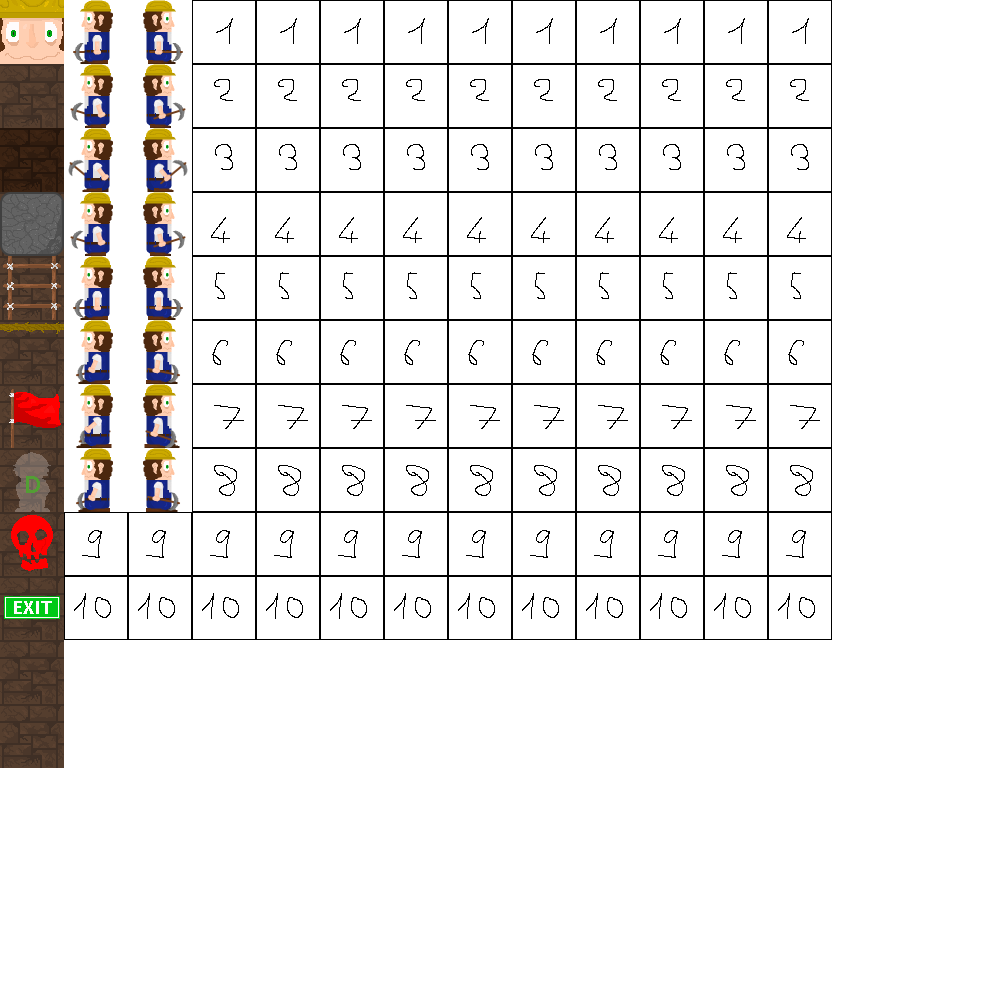
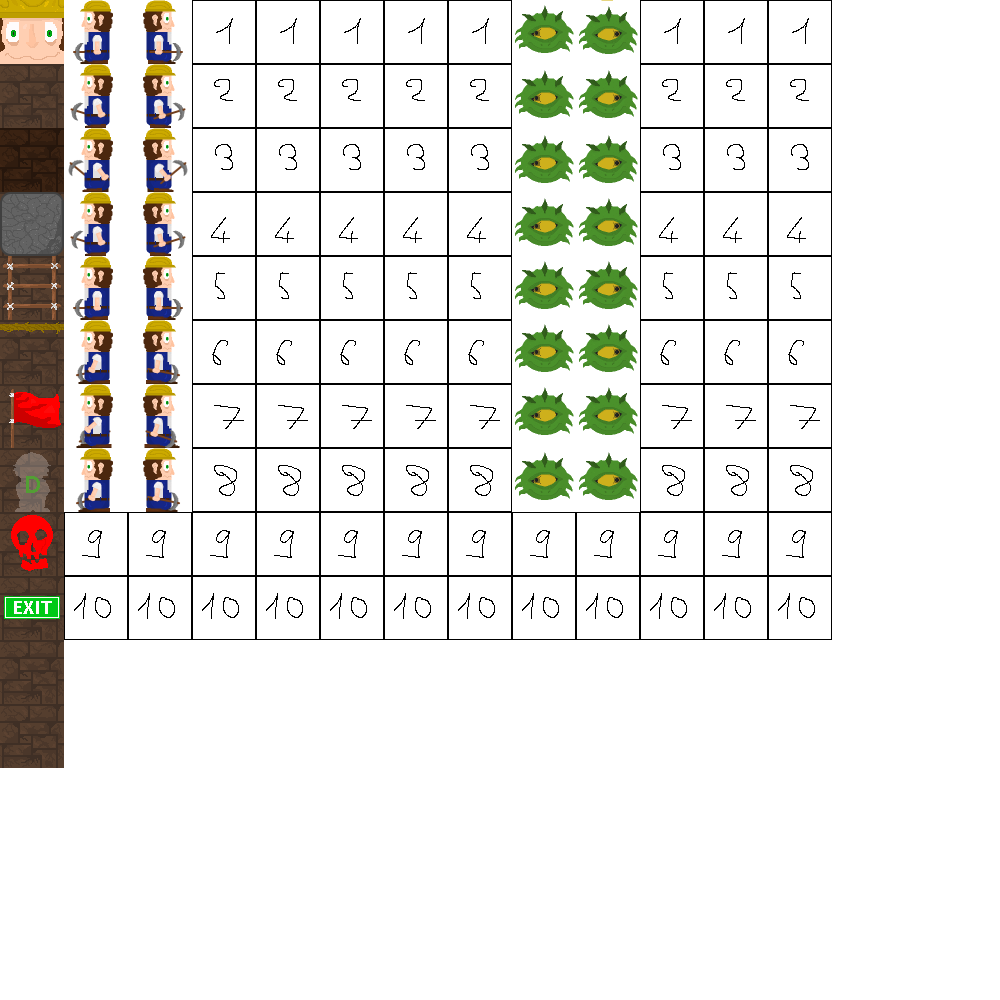
I broke AI but I figured out how to improve it. FEATURE: New flipbooks for ennemies.

Changed region(s): [[0.496, 0.0, 0.651, 0.527]]

diff --git a/LodeRunners/src/Game/Controllers/AIController.cpp b/LodeRunners/src/Game/Controllers/AIController.cpp
@@ -12,31 +12,49 @@ AIController::AIController(TileMap* tileMap, const std::vector<RunnerPawn*>& run
 void AIController::update(const float& dt)
 {
 	m_TimeAccumulator += dt;
-	if (m_TimeAccumulator < .5f) return;
-	else
-		m_TimeAccumulator -= .5f;
-
-	Pawn::MoveDir dir = Pawn::MoveDir::None;
 
 	updateClosestRunner();
-	
-	if (AI::ComputeAStar(m_TileMap->getNavigationGraph(),
-		{ (int)getPawn()->getPosition().x, (int)getPawn()->getPosition().y },
-		{ (int)m_ClosestRunner->getPosition().x , (int)m_ClosestRunner->getPosition().y },
-		m_Path))
-	{
-		sf::Vector2i currentPos = { (int)getPawn()->getPosition().x, (int)getPawn()->getPosition().y };
 
-		if(m_Path.size() > 1)
+	if (!m_ClosestRunner->isKilled()/*m_TimeAccumulator > .1f*/)
+	{
+		m_TimeAccumulator -= .1f;
+
+		if (AI::ComputeAStar(m_TileMap->getNavigationGraph(),
+			{ (int)getPawn()->getPosition().x, (int)getPawn()->getPosition().y },
+			{ (int)m_ClosestRunner->getPosition().x , (int)m_ClosestRunner->getPosition().y },
+			m_Path))
 		{
-			if      (currentPos.x < m_Path[1].getPosition().x) dir = Pawn::MoveDir::Right;
-			else if (currentPos.x > m_Path[1].getPosition().x) dir = Pawn::MoveDir::Left;
-			else if (currentPos.y < m_Path[1].getPosition().y) dir = Pawn::MoveDir::Down;
-			else if (currentPos.y > m_Path[1].getPosition().y) dir = Pawn::MoveDir::Up;
+			m_PathCursor = 0;
 		}
 
-		setMoving(dir);
+		sf::Vector2i currentPos = { (int)getPawn()->getPosition().x, (int)getPawn()->getPosition().y };
+
+		if (m_Path.size() > 1)
+		{
+			if (currentPos.x < m_Path[m_PathCursor + 1].getPosition().x) 
+			{
+				setMovingVertical(VerticalMoveDir::None);
+				setMovingHorizontal(HorizontalMoveDir::Right);
+			}
+			else if (currentPos.x > m_Path[m_PathCursor + 1].getPosition().x) 
+			{
+				setMovingVertical(VerticalMoveDir::None);
+				setMovingHorizontal(HorizontalMoveDir::Left);
+			}
+			else if (currentPos.y < m_Path[m_PathCursor + 1].getPosition().y) 
+			{
+				setMovingHorizontal(HorizontalMoveDir::None);
+				setMovingVertical(VerticalMoveDir::Down);
+			}
+			else if (currentPos.y > m_Path[m_PathCursor + 1].getPosition().y) 
+			{
+				setMovingHorizontal(HorizontalMoveDir::None);
+				setMovingVertical(VerticalMoveDir::Up);
+			}
+		}
 	}
+	else
+		stopMoving();
 	
 }
 

diff --git a/LodeRunners/src/Game/Entities/Pawns/EnnemyPawn.cpp b/LodeRunners/src/Game/Entities/Pawns/EnnemyPawn.cpp
@@ -14,7 +14,7 @@
 EnnemyPawn::EnnemyPawn(const size_t& ID, const std::string& name, TileMap* tileMap, const sf::Vector2f& spawnPoint)
 	: Pawn(ID, name, tileMap), m_SpawnPoint(spawnPoint)
 {
-	m_Flipbook->setType(FlipbookType::PlayerLeft);
+	m_Flipbook->setType(FlipbookType::EnnemyLeft);
 	m_Flipbook->setTotalDuration(.8f);
 
 	m_Collider->setCollisionProfile(CollisionProfile::Ennemy);
@@ -22,7 +22,7 @@ EnnemyPawn::EnnemyPawn(const size_t& ID, const std::string& name, TileMap* tileM
 	m_Collider->setRelativePosition({ .25f, 0.f });
 	m_Collider->setHitbox({ .5f, 1.f });
 
-	m_Speed = 1.5f;
+	m_Speed = 2.5;
 }
 
 void EnnemyPawn::update(const float& dt)
@@ -31,18 +31,18 @@ void EnnemyPawn::update(const float& dt)
 
 	if (m_IsMovingRight && !m_IsMovingLeft)
 	{
-		if (m_Flipbook->getType() != FlipbookType::PlayerRight || m_Flipbook->isFrozen())
+		if (m_Flipbook->getType() != FlipbookType::EnnemyRight || m_Flipbook->isFrozen())
 		{
-			m_Flipbook->setType(FlipbookType::PlayerRight);
+			m_Flipbook->setType(FlipbookType::EnnemyRight);
 			m_Flipbook->setCurrentFrame(0);
 			m_Flipbook->unFreeze();
 		}
 	}
 	else if (m_IsMovingLeft && !m_IsMovingRight)
 	{
-		if (m_Flipbook->getType() != FlipbookType::PlayerLeft || m_Flipbook->isFrozen())
+		if (m_Flipbook->getType() != FlipbookType::EnnemyLeft || m_Flipbook->isFrozen())
 		{
-			m_Flipbook->setType(FlipbookType::PlayerLeft);
+			m_Flipbook->setType(FlipbookType::EnnemyLeft);
 			m_Flipbook->setCurrentFrame(0);
 			m_Flipbook->unFreeze();
 		}

diff --git a/LodeRunners/src/Util/Util.cpp b/LodeRunners/src/Util/Util.cpp
@@ -1,7 +1,5 @@
 #include "Util.h"
 
-#include "../Core/Base.h"
-
 #include <map>
 #include <vector>
 #include <algorithm>
@@ -101,8 +99,6 @@ namespace Data
 	void AStarGraph::addNode(const NodePosition& pos)
 	{
 		m_Nodes[nodePosToStr(pos)] = Node(pos);
-
-		LOG_TRACE("Next tile : ({}, {})", pos.x, pos.y);
 	}
 
 	void AStarGraph::addEdge(const NodePosition& from, const NodePosition& to)
@@ -163,6 +159,8 @@ namespace AI
 	{
 		using namespace Data;
 
+		path.clear();
+
 		path.push_back(*current);
 
 		while (current->getCameFrom() != nullptr)
@@ -177,8 +175,6 @@ namespace AI
 	bool ComputeAStar(Data::AStarGraph graph, const Data::NodePosition& startPos, const Data::NodePosition& goalPos, std::vector<Data::Node>& path)
 	{
 		using namespace Data;
-
-		path.clear();
 		
 		Node* start = nullptr;
 		Node* goal = nullptr;

diff --git a/LodeRunners/src/Game/Controllers/PlayerController.cpp b/LodeRunners/src/Game/Controllers/PlayerController.cpp
@@ -22,4 +22,19 @@ void PlayerController::update(const float& dt)
 		setMovingVertical(VerticalMoveDir::Down);
 	else
 		setMovingVertical(VerticalMoveDir::None);
+
+	if (GET_EVENT(EventType::DigLeft))
+	{
+		RunnerPawn* asRunner = dynamic_cast<RunnerPawn*>(getPawn());
+
+		if (asRunner)
+			asRunner->dig_OnServer(DigTarget::Left);
+	}
+	if (GET_EVENT(EventType::DigRight))
+	{
+		RunnerPawn* asRunner = dynamic_cast<RunnerPawn*>(getPawn());
+
+		if (asRunner)
+			asRunner->dig_OnServer(DigTarget::Right);
+	}
 }

diff --git a/LodeRunners/src/Game/Controllers/AIController.h b/LodeRunners/src/Game/Controllers/AIController.h
@@ -22,6 +22,7 @@ private:
 	std::vector<RunnerPawn*> m_Runners;
 
 	std::vector<Data::Node> m_Path;
+	size_t m_PathCursor = 0;
 	RunnerPawn* m_ClosestRunner = nullptr;
 
 	float m_TimeAccumulator = 0.f;
